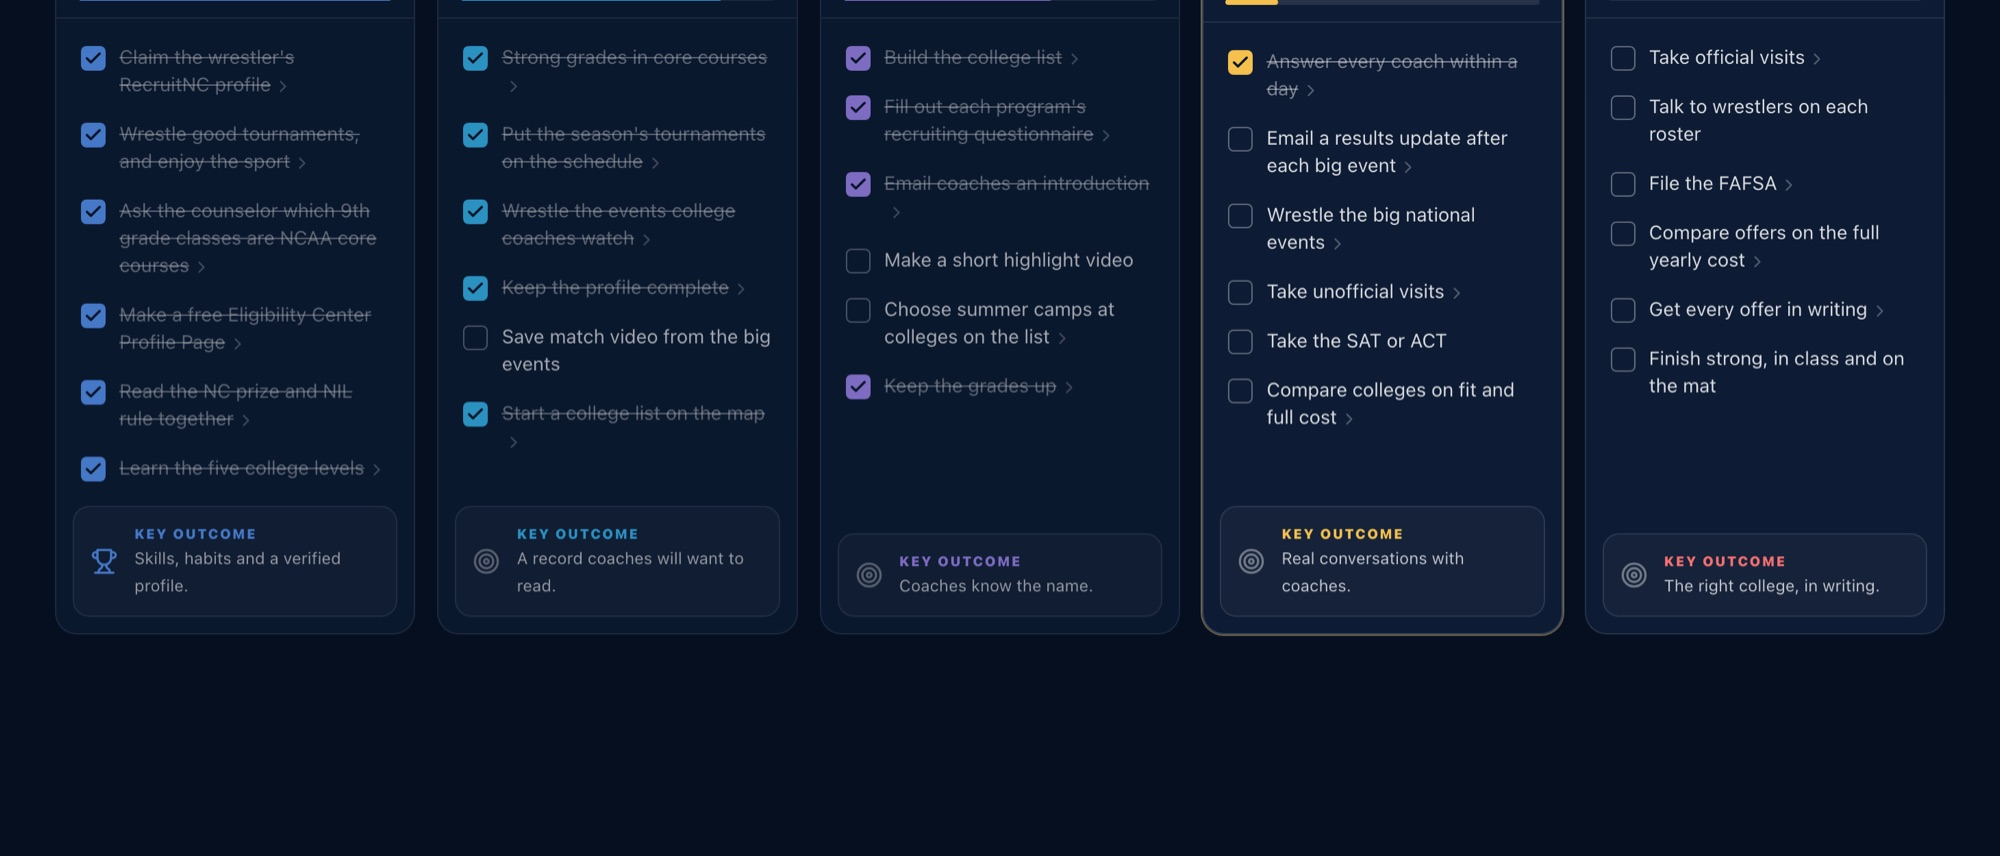
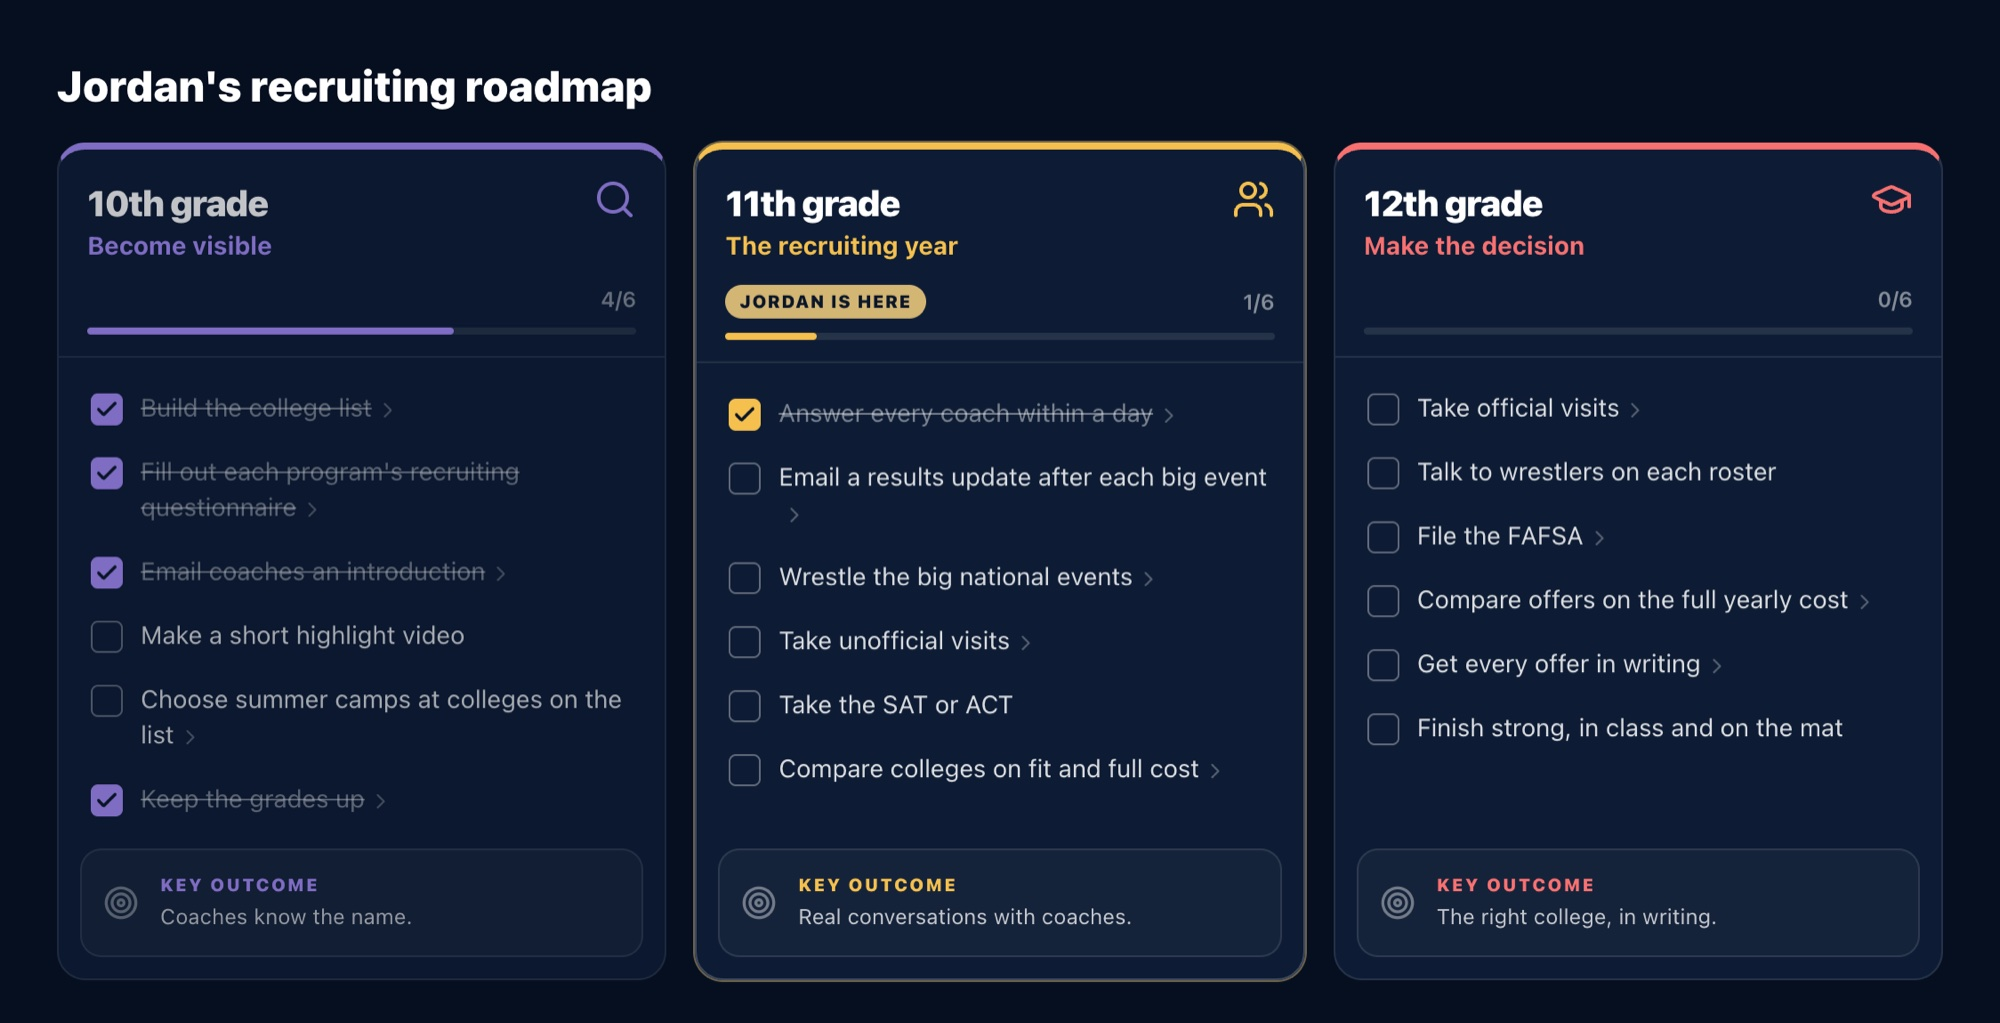
Roadmap screenshot: three readable years in grade order, headers in frame
The first capture cropped off the grade headers and squeezed five
columns into the sales-page box, too small to read. Now 10th-12th in
order with 11th marked, cropped to the board.

diff --git a/app/dev/screens/page.tsx b/app/dev/screens/page.tsx
@@ -66,10 +66,12 @@ export default async function Screens({ searchParams }: { searchParams?: Promise
           <CollegeListTable rows={rows} readOnly wrestlerId={null} />
         </div>
       ) : (
-        <div className="mx-auto max-w-[1380px]">
+        <div className="shot-roadmap mx-auto max-w-[1060px]">
+          {/* Three years, not five: at sales-page size five columns are too small to read. */}
+          <style>{".shot-roadmap .xl\\:grid-cols-5{grid-template-columns:repeat(3,minmax(0,1fr))!important}.shot-roadmap .xl\\:grid-cols-5>:nth-child(1){order:2!important}.shot-roadmap .xl\\:grid-cols-5>:nth-child(2){order:1!important}.shot-roadmap .xl\\:grid-cols-5>:nth-child(3){order:3!important}"}</style>
           <p className="mb-4 text-2xl font-black">Jordan&apos;s recruiting roadmap</p>
           <RoadmapBoard
-            years={ROADMAP}
+            years={ROADMAP.filter((y) => y.grade >= 10)}
             initialDone={["g8-profile", "g8-compete", "g8-core", "g8-ec", "g8-nc", "g8-levels", "g9-grades", "g9-schedule", "g9-events", "g9-profile", "g9-explore", "g10-list", "g10-questionnaires", "g10-email", "g10-grades", "g11-answer"]}
             current={11}
             selected={11}

diff --git a/app/command-center/page.tsx b/app/command-center/page.tsx
@@ -223,7 +223,7 @@ export default async function CommandCenterSalesPage() {
           visual={
             <figure className={`${card} overflow-hidden`}>
               {/* eslint-disable-next-line @next/next/no-img-element */}
-              <img src="/screens/roadmap.jpg" alt="The recruiting roadmap: five grade columns with checklists, 11th grade marked as the wrestler's year" loading="lazy" className="block w-full" />
+              <img src="/screens/roadmap.jpg" alt="The recruiting roadmap: 10th, 11th and 12th grade checklists, with 11th grade marked as the wrestler's year" loading="lazy" className="block w-full" />
               <figcaption className="px-4 py-2 text-[11px] text-white/45">The real screen, with an example family.</figcaption>
             </figure>
           }
